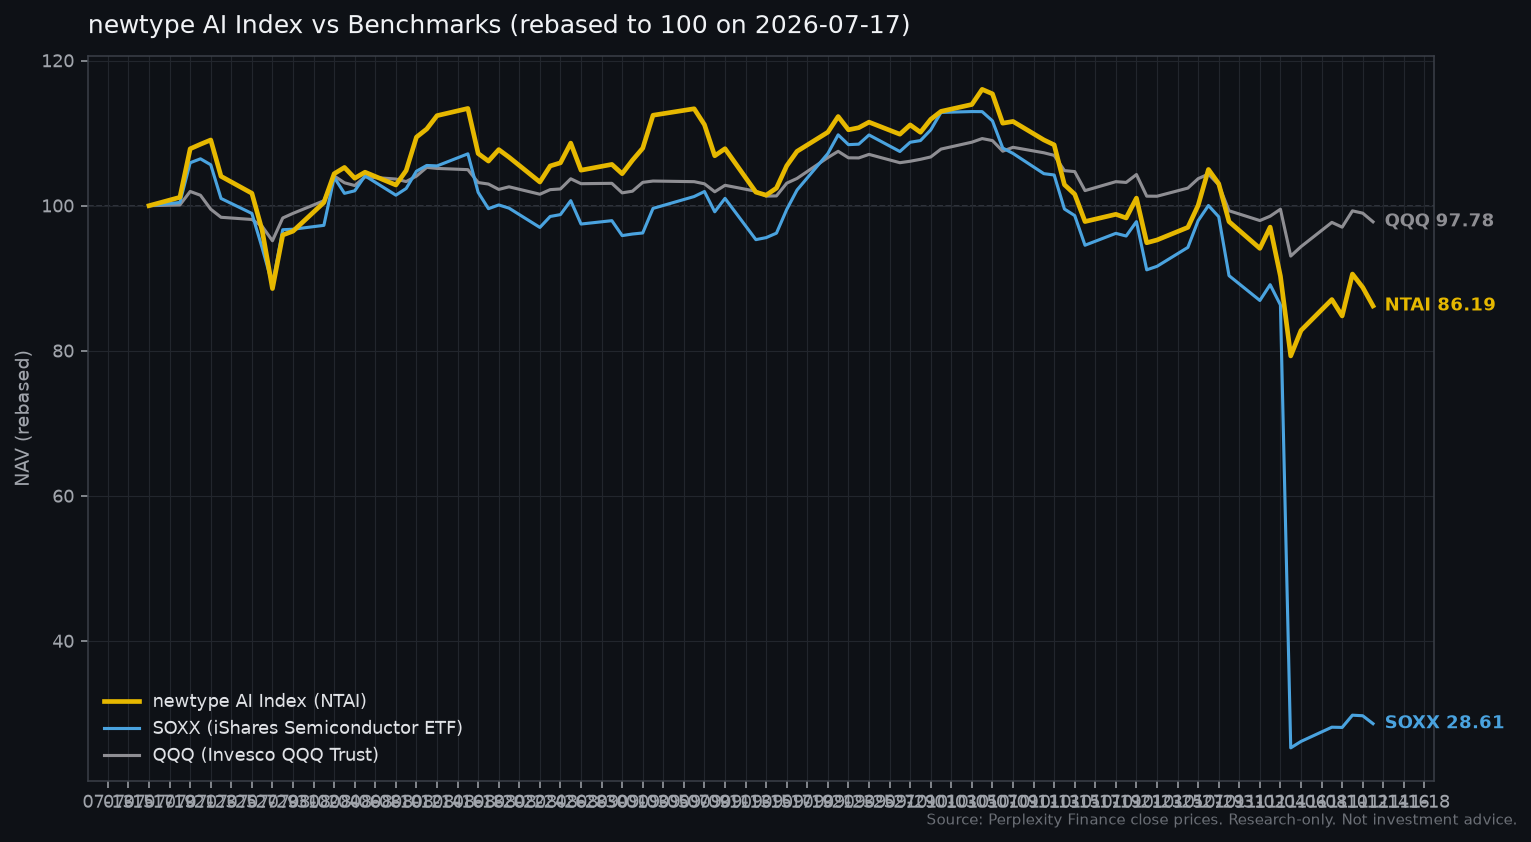
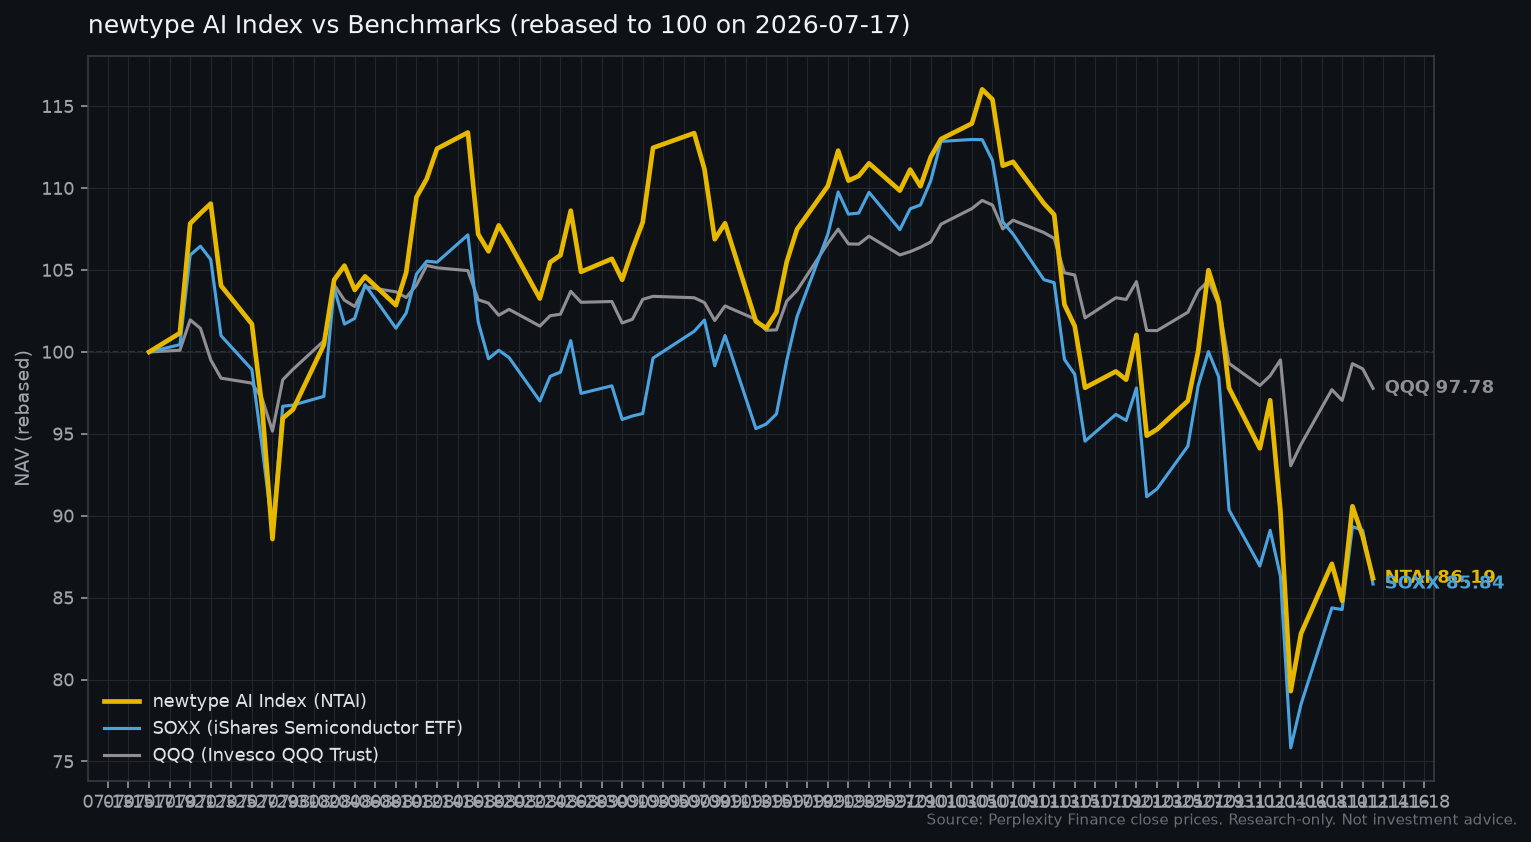
Adjust SOXX benchmark for November 2026 share split

diff --git a/scripts/calculate_nav.py b/scripts/calculate_nav.py
@@ -25,6 +25,7 @@ import csv
 import json
 import os
 from datetime import date, datetime
+from math import prod
 from pathlib import Path
 
 ROOT = Path(__file__).resolve().parent.parent
@@ -34,10 +35,13 @@ NAV_DIR = ROOT / "data" / "nav"
 BENCH_DIR = ROOT / "data" / "benchmarks"
 BENCH_TICKERS = ("SOXX", "QQQ")
 BASE_NAV = 100.0000
+# Share multipliers effective on the first split-adjusted trading day.
+# SOXX: https://www.ishares.com/us/products/239705/ishares-phlx-semiconductor-etf
+SPLITS = {"SOXX": ((date(2026, 11, 5), 3),)}
 
 
 def load_prices(path: Path) -> tuple[list[date], dict[str, dict[date, float]]]:
-    """Return (sorted_dates, {ticker: {date: close}})."""
+    """Return close prices in inception share units for comparable returns."""
     rows: dict[str, dict[date, float]] = {}
     dates: set[date] = set()
     with path.open() as f:
@@ -45,8 +49,8 @@ def load_prices(path: Path) -> tuple[list[date], dict[str, dict[date, float]]]:
         for row in reader:
             d = datetime.strptime(row["date"], "%Y-%m-%d").date()
             t = row["ticker"]
-            c = float(row["close"])
-            rows.setdefault(t, {})[d] = c
+            split_factor = prod(ratio for effective, ratio in SPLITS.get(t, ()) if effective <= d)
+            rows.setdefault(t, {})[d] = float(row["close"]) * split_factor
             dates.add(d)
     return sorted(dates), rows
 

diff --git a/CHANGELOG.md b/CHANGELOG.md
@@ -2,6 +2,11 @@
 
 Index 生死线:任何影响净值计算或成分定义的变更都在这里留痕。
 
+## 2026-11-16 — 校正SOXX拆股后的基准曲线
+
+- 根据[iShares公告](https://www.ishares.com/us/products/239705/ishares-phlx-semiconductor-etf)，SOXX自2026-11-05起按3比1拆股后的价格交易。
+- 计算时将拆股日起的SOXX收盘价换算为拆股前的每份价格，重新生成基准曲线。原始收盘价、成分、NTAI净值和QQQ基准沿用原记录。
+
 ## 2026-08-01 — Initial public commit
 
 - 建立 newtype AI Index(代号 NTAI),起始日 2026-07-17,初始净值 100.0000
